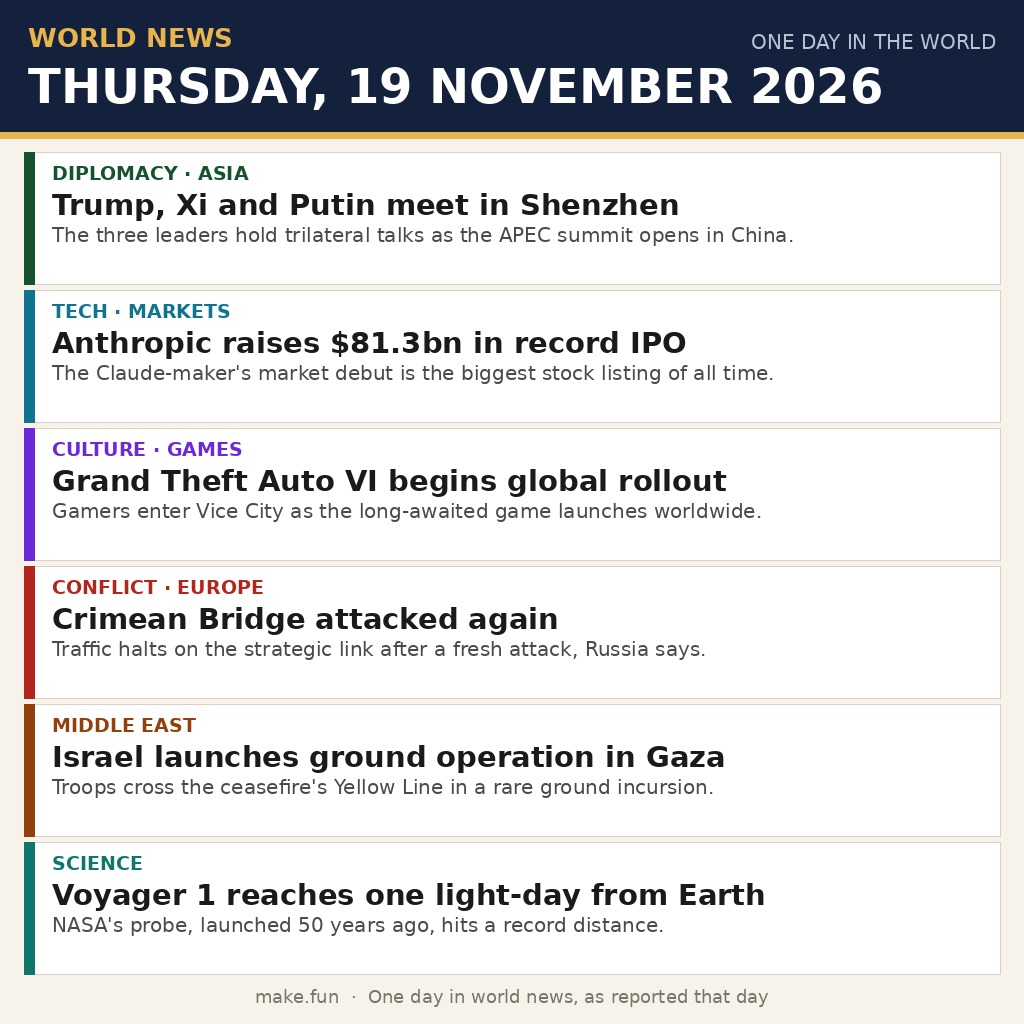
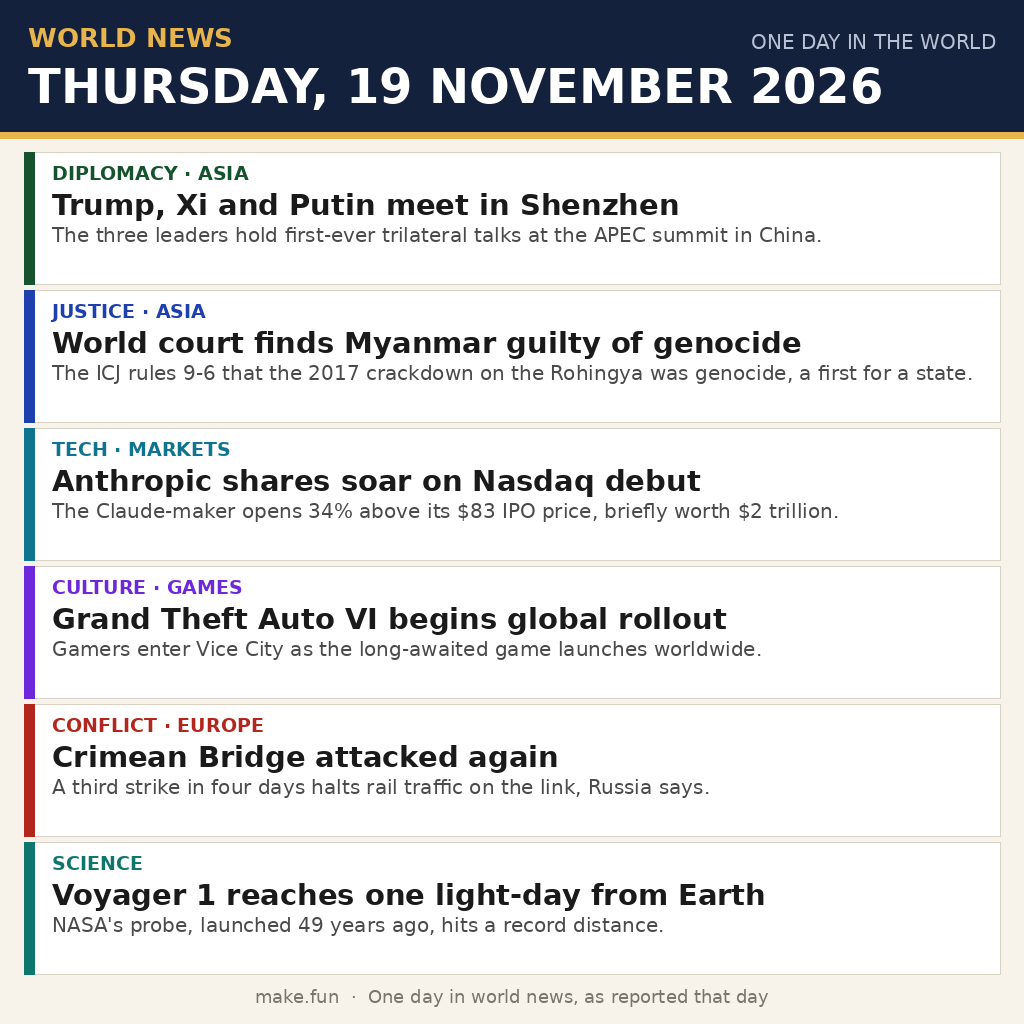
news-image-20261119 entry v2: Solemn Verdict (ICJ Rohingya ruling added, Gaza/Anthropic/Voyager date fixes)

Changed region(s): [[0.0, 0.2812, 0.9375, 0.8125], [0.2812, 0.2188, 0.8125, 0.25], [0.2812, 0.875, 0.3125, 0.9062]]

diff --git a/main.py b/main.py
@@ -1,5 +1,5 @@
 #!/usr/bin/env python3
-"""news-image-20261119 entry (Python 3.13, standard library only).
+"""news-image-20261119 entry, v2 "Solemn Verdict" (Python 3.13, standard library only).
 
 The entry is the infographic in entry.png: six labelled story cards
 summing up the world news of Thursday 19 November 2026. This program
@@ -10,11 +10,16 @@ Local check:
     mkdir -p out && MAKEFUN_OUTPUT_DIR=out python3 main.py
 """
 
+import hashlib
 import os
 import shutil
 from pathlib import Path
 
 ENTRY = Path(__file__).resolve().parent / "entry.png"
+
+
+def _sha256(path: Path) -> str:
+    return hashlib.sha256(path.read_bytes()).hexdigest()
 
 
 def main() -> None:
@@ -27,6 +32,8 @@ def main() -> None:
     expected = ENTRY.stat().st_size
     if written != expected:
         raise RuntimeError(f"entry.png copy is incomplete: {written} != {expected}")
+    if _sha256(destination) != _sha256(ENTRY):
+        raise RuntimeError("entry.png copy differs from the source image")
 
 
 if __name__ == "__main__":

diff --git a/README.md b/README.md
@@ -4,13 +4,15 @@
 [![rank](https://make.fun/badge/news-image-20261119/OhhRayy/news-image-20261119/rank.svg)](https://make.fun/bounty/news-image-20261119/leaderboard?utm_source=github&utm_medium=readme&utm_campaign=news-image-20261119)
 [![reward](https://make.fun/badge/news-image-20261119/OhhRayy/news-image-20261119/reward.svg)](https://make.fun/bounty/news-image-20261119?utm_source=github&utm_medium=readme&utm_campaign=news-image-20261119)
 
-A program that sums up the world's news of Thursday 19 November 2026 in one image. It writes the image to /output/entry.png: a dated infographic with six labelled story cards covering the day's biggest stories — the Shenzhen trilateral summit, Anthropic's record IPO, the GTA VI rollout, the Crimean Bridge attack, the Gaza ground operation, and Voyager 1's light-day milestone. The image is drawn with exact text (no generated-text artefacts) and is 1024×1024 pixels.
+A program that sums up the world's news of Thursday 19 November 2026 in one image. It writes the image to /output/entry.png: a dated infographic with six labelled story cards covering the day's biggest stories — the first-ever Trump–Xi–Putin trilateral in Shenzhen, the World Court's genocide ruling against Myanmar over the Rohingya, Anthropic's soaring Nasdaq debut, the GTA VI global rollout, the third Crimean Bridge strike in four days, and Voyager 1's one-light-day milestone. The image is drawn with exact text (no generated-text artefacts) and is 1024×1024 pixels.
 
 ## Run it
 
 ```sh
 python3 main.py
 ```
+
+Verified locally: two runs into different directories produced byte-identical copies of entry.png (matching SHA-256 hashes).
 
 ---
 
